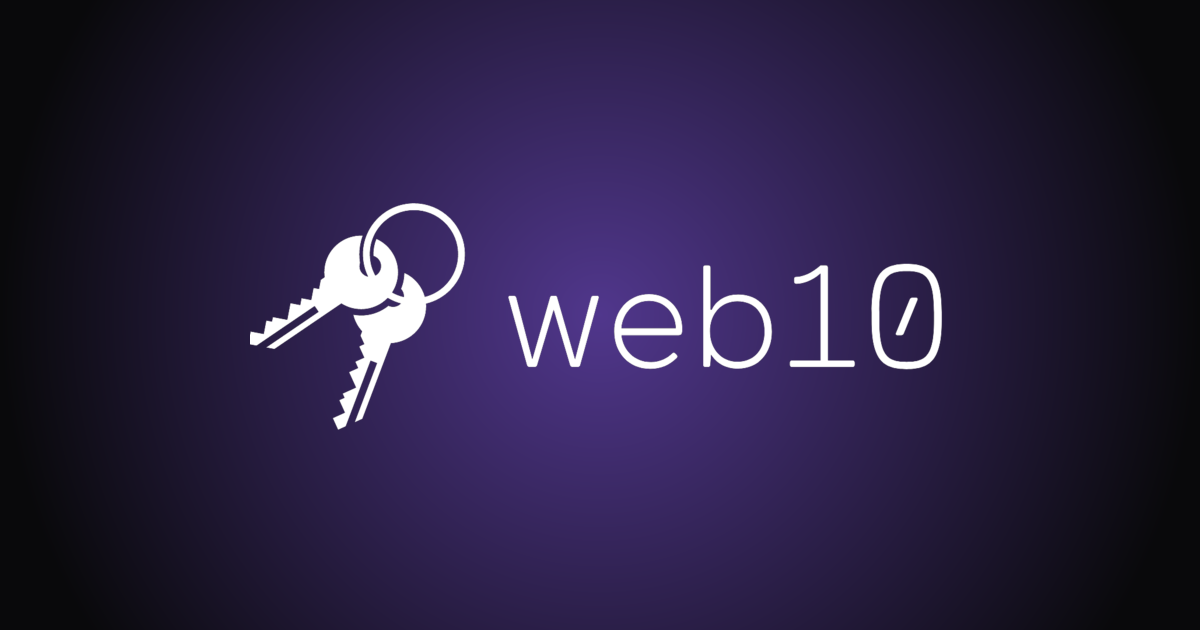
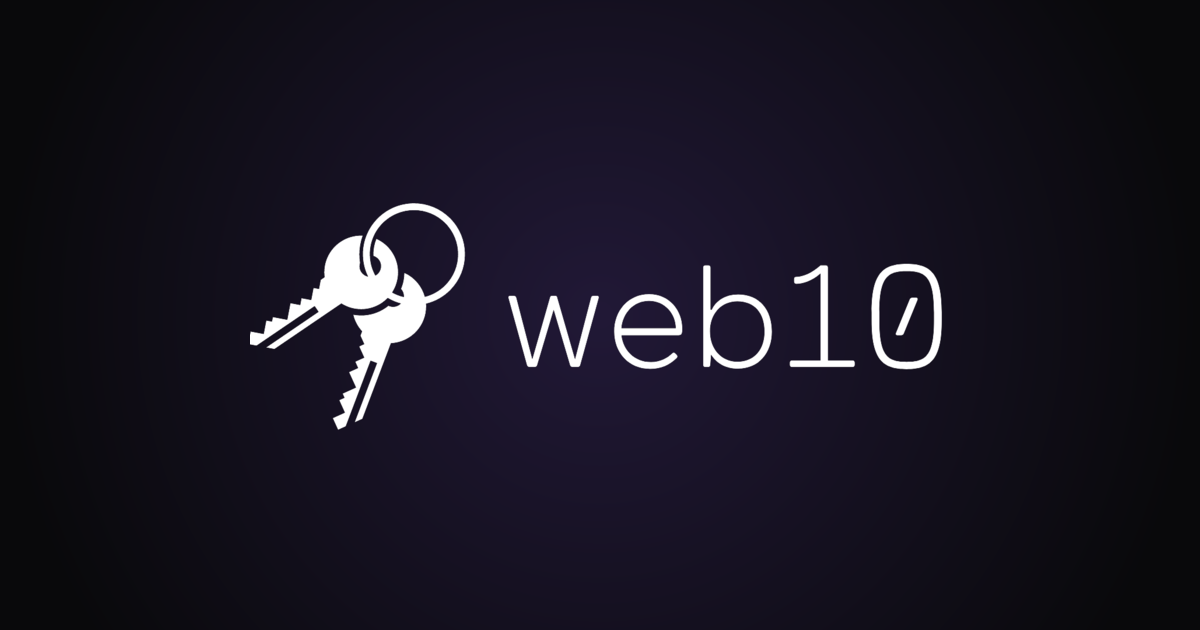
fix(social, marketing): share cards bake in their own dark background (D109)
Operator (10.11.2026, Instagram story screenshot of a shared
social.web10.app link): the share card shows a white key on a white
background — invisible. "should be black background... same for
web10.app too, same issues".

Root: a share card's og:image is an opaque asset — the receiving app
composites it onto its own card frame, and where the PNG is
transparent that frame is white. The social app-root static tags +
the preview server's BRAND_IMAGE fallback used keys-mark.png (the
white mark on transparent, the in-app asset).

- new marketing/web10-social/public/og-image.png: 1200x1200 square
  (the mark survives the IG story frame and 16:9 cover crops uncut),
  keys mark centered from its existing geometry on #09090b with a
  subtle violet glow; used by the static og:/twitter: tags and the
  crawler-card brand fallback (preview/card.mjs BRAND_IMAGE)
- service worker precaches /og-image.png (VERSION v3 -> v4)
- marketing-ui public/brand/og-image.png regenerated: same lockup
  geometry + placement on #09090b, glow cut so the background reads
  black (was a mid-purple field); same URL, no tag change
- .context/brand-assets/og-image.png shared copy tracks it
- 21 card/server controls re-pinned (previewCard.test.ts 19,
  previewServer.test.ts 2)
- in-app mark pairs (keys-mark{,-dark}.png, logo-lockup{,-dark}.png)
  untouched — there the page owns the background

KB: decisions.md D109 + design.md 3 (share-card row + debt-4 payoff)
[…]

diff --git a/marketing/web10-social/src/__tests__/previewCard.test.ts b/marketing/web10-social/src/__tests__/previewCard.test.ts
@@ -198,7 +198,7 @@ describe('web10-social link-preview card logic (KB: media/thumbnailing.md)', () 
     expect(html).toContain('"title":"Nosferatu (1922) — Full Film"')
     expect(html).toContain('"description":"Hello! I post public domain movies."')
     expect(html).toContain('http://minio.test/nova/film-poster.webp')
-    expect(html).not.toContain('keys-mark.png')
+    expect(html).not.toContain('og-image.png')
   })
 
   it('postCard: a public post with no media falls back to the author avatar', async () => {
@@ -226,7 +226,7 @@ describe('web10-social link-preview card logic (KB: media/thumbnailing.md)', () 
       'query:avatar_ref:["api.test/groups/users/nova/followers"]': [], // no profile face
     })
     const html = await postCard('nova', 'p1')
-    expect(html).toContain('http://social.test/keys-mark.png')
+    expect(html).toContain('http://social.test/og-image.png')
   })
 
   it('postCard: a group-authored post with no media falls back to the group face avatar', async () => {
@@ -273,7 +273,7 @@ describe('web10-social link-preview card logic (KB: media/thumbnailing.md)', () 
     const html = await postCard('nova', 'p1')
     // The generic card — no post text, the brand mark, the canonical url.
     expect(html).toContain('A post on web10')
-    expect(html).toContain('http://social.test/keys-mark.png')
+    expect(html).toContain('http://social.test/og-image.png')
     expect(html).toContain('http://social.test/u/nova/p/p1')
     // The secret text must not leak.
     expect(html).not.toContain('secret')
@@ -336,14 +336,14 @@ describe('web10-social link-preview card logic (KB: media/thumbnailing.md)', () 
       })
       const html = await profileCard('nova')
       expect(html).toContain('Nova')
-      expect(html).toContain('http://social.test/keys-mark.png')
+      expect(html).toContain('http://social.test/og-image.png')
     })
 
     it('an unknown user (no profile doc) renders a generic @username card', async () => {
       mockPlatform({}) // the face query returns no rows → the generic card
       const html = await profileCard('ghost')
       expect(html).toContain('@ghost on web10')
-      expect(html).toContain('http://social.test/keys-mark.png')
+      expect(html).toContain('http://social.test/og-image.png')
       expect(html).toContain('http://social.test/u/ghost')
     })
 
@@ -353,7 +353,7 @@ describe('web10-social link-preview card logic (KB: media/thumbnailing.md)', () 
       })
       const html = await profileCard('bob')
       expect(html).toContain('@bob on web10')
-      expect(html).toContain('http://social.test/keys-mark.png')
+      expect(html).toContain('http://social.test/og-image.png')
       expect(html).toContain('http://social.test/u/bob')
       // The face must not leak.
       expect(html).not.toContain('secret')
@@ -365,7 +365,7 @@ describe('web10-social link-preview card logic (KB: media/thumbnailing.md)', () 
       fetchMock.mockRejectedValueOnce(new Error('boom'))
       const html = await profileCard('nova')
       expect(html).toContain('@nova on web10')
-      expect(html).toContain('http://social.test/keys-mark.png')
+      expect(html).toContain('http://social.test/og-image.png')
     })
   })
 
@@ -425,7 +425,7 @@ describe('web10-social link-preview card logic (KB: media/thumbnailing.md)', () 
       })
       const html = await groupCard(GROUP_ID)
       expect(html).toContain('Jazz Collectors')
-      expect(html).toContain('http://social.test/keys-mark.png')
+      expect(html).toContain('http://social.test/og-image.png')
     })
 
     it('a group with no readable face renders a generic card with no content', async () => {
@@ -436,7 +436,7 @@ describe('web10-social link-preview card logic (KB: media/thumbnailing.md)', () 
       })
       const html = await groupCard('api.web10.app/groups/users/bob/secret')
       expect(html).toContain('A group on web10')
-      expect(html).toContain('http://social.test/keys-mark.png')
+      expect(html).toContain('http://social.test/og-image.png')
       expect(html).toContain(`http://social.test/groups/${encodeURIComponent('api.web10.app/groups/users/bob/secret')}`)
       // The face must not leak.
       expect(html).not.toContain('secret club name')
@@ -461,7 +461,7 @@ describe('web10-social link-preview card logic (KB: media/thumbnailing.md)', () 
       const fetchMock = mockPlatform({ 'read:private': null })
       const html = await musicCard('private')
       expect(html).toContain('A post on web10')
-      expect(html).toContain('keys-mark.png')
+      expect(html).toContain('og-image.png')
       expect(fetchMock).toHaveBeenCalledTimes(2)
       expect(fetchMock.mock.calls.some(([url]) => String(url).includes('/thumbnail'))).toBe(false)
     })
@@ -470,7 +470,7 @@ describe('web10-social link-preview card logic (KB: media/thumbnailing.md)', () 
       mockPlatform({ 'read:no-art': { author_key: 'nova', body: { title: 'Uncovered' } } })
       const html = await musicCard('no-art')
       expect(html).toContain('Uncovered')
-      expect(html).toContain('keys-mark.png')
+      expect(html).toContain('og-image.png')
     })
 
     it.each([undefined, null, ''])('renders generic Music without document reads for %s', async (track) => {
@@ -525,7 +525,7 @@ describe('web10-social link-preview card logic (KB: media/thumbnailing.md)', () 
       })
       const html = await watchCard('p1')
       expect(html).toContain('A post on web10')
-      expect(html).toContain('http://social.test/keys-mark.png')
+      expect(html).toContain('http://social.test/og-image.png')
       expect(html).toContain('http://social.test/watch/p1')
     })
 
@@ -583,7 +583,7 @@ describe('web10-social link-preview card logic (KB: media/thumbnailing.md)', () 
       })
       const html = await shortsCard('p1')
       expect(html).toContain('A post on web10')
-      expect(html).toContain('http://social.test/keys-mark.png')
+      expect(html).toContain('http://social.test/og-image.png')
       expect(html).toContain('http://social.test/shorts/p1')
     })
   })
@@ -600,7 +600,7 @@ describe('web10-social link-preview card logic (KB: media/thumbnailing.md)', () 
       expect(html).toContain('"title":"Night Drive"')
       expect(html).toContain('"image":"http://minio.test/nova/album.webp"')
       expect(html).toContain(`http://social.test/groups/${encodeURIComponent(CLUB)}/p/track-1`)
-      expect(html).not.toContain('keys-mark.png')
+      expect(html).not.toContain('og-image.png')
       // Anon-only reads (no Authorization header ever leaves the process).
       expect(fetchMock.mock.calls.every(([, init]) => !('Authorization' in (init?.headers || {})))).toBe(true)
     })
@@ -609,7 +609,7 @@ describe('web10-social link-preview card logic (KB: media/thumbnailing.md)', () 
       const fetchMock = mockPlatform({ 'read:private': null })
       const html = await groupPostCard(CLUB, 'private')
       expect(html).toContain('A post on web10')
-      expect(html).toContain('keys-mark.png')
+      expect(html).toContain('og-image.png')
       expect(html).toContain(`http://social.test/groups/${encodeURIComponent(CLUB)}/p/private`)
       expect(fetchMock.mock.calls.some(([url]) => String(url).includes('/thumbnail'))).toBe(false)
     })
@@ -804,7 +804,7 @@ describe('web10-social link-preview card logic (KB: media/thumbnailing.md)', () 
       )
       const html = await savedCard('nova', PLAYLIST)
       expect(html).toContain('"title":"Jazz Nights"')
-      expect(html).toContain('http://social.test/keys-mark.png')
+      expect(html).toContain('http://social.test/og-image.png')
       expect(html).toContain('1 saved item')
     })
 
@@ -812,7 +812,7 @@ describe('web10-social link-preview card logic (KB: media/thumbnailing.md)', () 
       const fetchMock = mockPlatform({})
       const html = await savedCard('nova', 'api.test/groups/users/nova/saved-secret')
       expect(html).toContain('A playlist on web10')
-      expect(html).toContain('http://social.test/keys-mark.png')
+      expect(html).toContain('http://social.test/og-image.png')
       expect(html).toContain(`http://social.test/u/nova/saved/${encodeURIComponent('api.test/groups/users/nova/saved-secret')}`)
       expect(html).not.toContain('secret name')
       // Face read + render only — no thumbnail, no item read, no post reads.
@@ -824,7 +824,7 @@ describe('web10-social link-preview card logic (KB: media/thumbnailing.md)', () 
       mockPlatform(faceHandlers(null)) // the items read answers null → no count, no cover walk
       const html = await savedCard('nova', PLAYLIST)
       expect(html).toContain('"title":"Jazz Nights"')
-      expect(html).toContain('http://social.test/keys-mark.png')
+      expect(html).toContain('http://social.test/og-image.png')
       expect(html).toContain('"description":"by @nova"')
       expect(html).not.toContain('saved items')
     })
@@ -862,7 +862,7 @@ describe('web10-social link-preview card logic (KB: media/thumbnailing.md)', () 
       const fetchMock = mockPlatform({})
       const html = await musicPlaylistCard('api.test/groups/users/nova/saved-secret')
       expect(html).toContain('A playlist on web10')
-      expect(html).toContain('http://social.test/keys-mark.png')
+      expect(html).toContain('http://social.test/og-image.png')
       expect(html).toContain(`http://social.test/music?view=playlists&collection=${encodeURIComponent('api.test/groups/users/nova/saved-secret')}`)
       expect(fetchMock).toHaveBeenCalledTimes(2)
     })

diff --git a/marketing/web10-social/index.html b/marketing/web10-social/index.html
@@ -10,16 +10,19 @@
     <!-- Static Open Graph / Twitter Card fallback (D71). Post permalinks get
          per-post tags rendered by the node (the share-preview endpoint); these
          cover the app root + any non-post route a link might point at. The
-         image is the brand mark; crawlers resolve it against the page origin. -->
+         image is the share-card brand mark: the keys mark on the #09090b dark
+         back (D109) — share UIs composite a transparent og:image onto their
+         OWN white card, which is how the bare white-on-transparent mark went
+         invisible; a baked-in dark back makes the card self-contained. -->
     <meta property="og:type" content="website" />
     <meta property="og:site_name" content="web10" />
     <meta property="og:title" content="web10 social" />
     <meta property="og:description" content="Your audience. No shadow ban. 100% delivery by architecture." />
-    <meta property="og:image" content="/keys-mark.png" />
+    <meta property="og:image" content="/og-image.png" />
     <meta name="twitter:card" content="summary" />
     <meta name="twitter:title" content="web10 social" />
     <meta name="twitter:description" content="Your audience. No shadow ban. 100% delivery by architecture." />
-    <meta name="twitter:image" content="/keys-mark.png" />
+    <meta name="twitter:image" content="/og-image.png" />
     <link rel="apple-touch-icon" href="/apple-touch-icon.png" />
     <link rel="manifest" href="/manifest.json" />
     <title>web10 social</title>

diff --git a/marketing/web10-social/src/__tests__/previewServer.test.ts b/marketing/web10-social/src/__tests__/previewServer.test.ts
@@ -164,7 +164,7 @@ describe('music preview HTTP routing', () => {
     // for anon on the real node).
     expect(result.html).toContain('"image":"https://media.test/playlist-cover.webp"')
     expect(result.html).not.toContain('playlist-recording.mp3')
-    expect(result.html).not.toContain('keys-mark.png')
+    expect(result.html).not.toContain('og-image.png')
     expect(result.html).toContain('2 saved items')
     expect(result.html).toContain('by @nova')
     expect(result.html).toContain(`https://social.test/u/nova/saved/${encodeURIComponent(PLAYLIST)}`)
@@ -192,7 +192,7 @@ describe('music preview HTTP routing', () => {
     const result = await get(`/u/nova/saved/${encodeURIComponent(secret)}`)
     expect(result.status).toBe(200)
     expect(result.html).toContain('A playlist on web10')
-    expect(result.html).toContain('https://social.test/keys-mark.png')
+    expect(result.html).toContain('https://social.test/og-image.png')
     expect(result.html).not.toContain('playlist-cover.webp')
     const services = calls.map(call => call.body.service).filter(Boolean)
     expect(services).toEqual(['web10-social-group-identity'])

diff --git a/marketing/web10-social/public/serviceWorker.js b/marketing/web10-social/public/serviceWorker.js
@@ -14,7 +14,7 @@
 // Bump VERSION on a deploy that changes the shell — the versioned cache names
 // make the old shell get garbage-collected on activate.
 
-const VERSION = 'v3';
+const VERSION = 'v4';
 const STATIC_CACHE = `web10-social-static-${VERSION}`;
 const RUNTIME_CACHE = `web10-social-runtime-${VERSION}`;
 
@@ -31,6 +31,7 @@ const PRECACHE_URLS = [
   '/favicon.ico',
   '/keys-mark.png',
   '/keys-mark-dark.png',
+  '/og-image.png',
   '/apple-touch-icon.png',
   '/hls.min.js',
   '/wapi.js',

diff --git a/knowledge-base/changelogs/CHANGELOG.md b/knowledge-base/changelogs/CHANGELOG.md
@@ -1,3 +1,6 @@
+5.16.1 || 10.11.2026
+fix(marketing, social): share cards bake in their own dark background (D109) — operator (10.11.2026, Instagram story screenshot of a shared social.web10.app link): "when sharing web10 social, the background looks terrible should be black background... same for web10.app too, same issues"; follow-up: "if the key is white that is what i am saying". Root: the share image is an OPAQUE asset — the receiving app (Instagram/WhatsApp/iMessage) composites `og:image` onto its own card frame, and where the PNG is transparent that frame is white. web10-social's static `og:`/`twitter:` tags and the preview server's `BRAND_IMAGE` fallback were `keys-mark.png` (the white keys mark on transparent — the in-app asset) → a white key on a white card, effectively invisible. Fix: (1) new `marketing/web10-social/public/og-image.png` — 1200×1200 square (survives Instagram's near-square story frame AND 16:9 cover crops with the mark uncut), the keys mark centered from its existing geometry (upscaled from the canonical transparent source, not redrawn) on `#09090b` with a subtle violet glow; used by the app-root static tags AND the crawler-card brand fallback (`preview/card.mjs` `BRAND_IMAGE`) — so private posts, coverless playlists, faceless profiles, generic groups and music all fall back to the dark card, not the white one. Service worker precaches it (VERSION v3→v4). (2) `marketing/marketing-ui/public/brand/og-image.png` regenerated — the same lockup geometry + placement on `#09090b` with the glow cut so the background reads black (it was a mid-purple field; the operator asked for black). Same URL, so no tag change; the shared copy `.context/brand-assets/og-image.png` tracks it. In-app mark pairs (`keys-mark{,-dark}.png`, `logo-lockup{,-dark}.png`) untouched — inside app chrome the page owns the background, so transparency is correct there. 21 card/server controls re-pinned (`previewCard.test.ts` 19, `previewServer.test.ts` 2); all 2,426 social tests + all 377 marketing tests + both production builds/typechecks pass. KB: `decisions.md` D109 + `design.md` §3 (the share-card row + the debt-4 payoff) + `social/share-preview.md` + `social/pwa.md` (the precache list). Open: production deploy + the receiving app's re-crawl (Instagram/WhatsApp cache the old image; a re-share picks up the new one on the next crawl).
+
 5.16.0 || 10.11.2026
 feat(social): shared playlists open for logged-out visitors, a playlist is a playlist on every surface, and a video CAN be a track (operator reports, 10.11.2026: the shared `/music?view=playlists&collection=…` link showed a sign-in wall to a logged-out recipient — "should be able to see it because it is a public playlist"; "when i hit share playlist, it shows it as a collection when people click it"; "in the profile … music posts that are mp3 dont play, collections on the profile that are music are botched up" — one root; "detect if a collection is all music"; a deleted post "still uses the photo from it as the thumbnail even though it is deleted, it is like the post is lingering"; then "can videos be made to be treated like music? where they show up in the music tab … want to be able to edit posts and make them considered music, as a choice"). Root causes, one direction: the collection's `anyone` grant is the access control, the Music view is the sharing surface, the shared audio/video players are the media seams, a cover lives only through live items, and a track's kind is a tag + a resolved media — never a column. **(1) Anon deep-link access** — `MusicScreen`'s playlists-view gates held the collection state BEHIND the session: the load effect bailed and the render gate showed "A library of your own" for any non-explore view without `scope=browse|bookmarks`, so a URL-opened collection never loaded for a visitor. The URL now holds the state it always said it held: `view=playlists&collection=…` loads for anyone — public collections render the playlist + Play all through the existing read path (the `anyone` grant, zero new read authority), a private one 403s into "This playlist is private or no longer available." (the I3 state, not a wall); the sign-in wall is kept exactly where the URL carries no collection (the anonymous playlists GRID and the Saved Music view — the reader's own library). **(2) The share shape** — "Share playlist" (the Music app + Saved Music) and the D88 screen's share for an ALL-MUSIC collection now hand out the LISTENING permalink `/music?view=playlists&collection=<group_id>` instead of the D88 collection screen (which was the "shows it as a collection" — a management wall, not the playlist). The D88 screen keeps its permalink as the MANAGE link (the owner's "Manage collection & order"), and gains the music detection the operator asked for: a saved collection whose LIVE items all pass the shared `musicTrackFromPost` gate (the `music` tag + exactly one playable media; dead items excluded, no-live-items is not music) offers a "Listen in Music" handoff (owner, visitors and anon) + shares the listening permalink; mixed collections keep the D88 shape. The preview edge answers the new URL shape with the same saved-collection card (face + count + the cover walk, no user attribution — the query URL carries no username; the I3 floor intact: a denied face → the generic card, no content); the existing nginx `location = /music` crawler proxy already carries it (query strings don't affect the location match — no config change). **(3) Audio in the post lightbox** — `LightboxSlide` rendered every non-video frame as `<img src=media.url>`: for an mp3 that's a broken image, which is why profile mp3 posts "don't play" AND why the profile's music collections were "botched" (the D88 wall opens posts through the same lightbox). A music-track post now collapses to ONE slide — the shared `AudioPlayer` (the Posts feed's own control: album art via the shared precedence, seek, the authorized-recovery path) with the track's title/artist; the media pane drops its 4:3 black stage for the audio slide (content-sized); a non-music audio item (a voice note) gets the same audio slide per frame; a music-VIDEO post keeps the video player (the gate passes a video playable through — the strip only collapses when the track's media is audio). **(4) D107 replay state** — `readMusicCollection` returns the face's visibility, and the open-collection section's `data-replay-private` uses it when the reader's library has no record of the collection (the anon/visitor case): a public playlist an anonymous visitor opens is public content (unmasked), an unknown/failed read stays masked. **(5) Stale-cover self-heal** — deleting a post tombstones the `posts` doc, but its MEDIA DOCS OUTLIVE IT, so a cover pinned (or auto-set) from that post kept resolving to a displayable URL: the dead post's picture lingered on every card ("the post is lingering"). The cover is valid only THROUGH A LIVE ITEM: `readCollection` checks the face's `avatar_ref` against the live items' media after resolving; stale → reselect the first live item's first media (the auto-cover rule) or clear it (no live media → the placeholder), and persist the healed face best-effort (the owner's write — a visitor's 403 is ignored, the in-session face is healed either way, the grid converges on the owner's next open). A live cover never triggers a write (ordinary reads stay write-free); dead items themselves still render the "no longer available" tile (the degradation, unchanged — the cover is the fix, not the item). Gates: 41 new + re-pinned focused controls — `musicScreen.test.tsx` (the anon suite: the public deep link loads without the wall or a library read, the private deep link 403s into the unavailable state, the wall is kept for the anon playlists grid + Saved Music, the D107 replay state from the face visibility, the deep-linked track for a visitor; the share-URL re-pins on the new shape, red pre-fix); `saved.test.ts` +5 (reselect + persist, live cover = no write, all-dead = cleared, the visitor-403 silent degrade, the pure-helper edges); `postLightboxAudio.test.tsx` (new: the music slide + album art with the recording never an `<img>`, the art-less track, the untagged audio, the music-video stays video); `savedCollection.test.tsx` +6 (the CTA owner/visitor/anon, dead-item exclusion, the music share URL, the mixed D88 shape, all-dead no handoff); `previewCard.test.ts` +2 / `previewServer.test.ts` +2 (the playlist URL shape's card + routing, the I3 floor both sides); `musicVideoTrack.test.tsx` (new: the dual transport — a file video routes to the video element, a transcoded video rides the hls manifest + attaches to the context's own element, video→audio releases the video source, and the stage lend/return round-trips the SAME element); `postEditMedia.test.tsx` +3 (an audio post offers the tag REMOVAL, a video post the tag ADD, an image-only post no control); `musicScreen.test.tsx` +3 (the video track's panel stage borrows the session element — exactly one `<video>` in the DOM, the audio track keeps the artwork stage, and the manage link is library-gated for a foreign collection); `composerPaste.test.tsx` +6 (the paperclip general-media affordance, paste→album-art on a solo-audio tray without a second tray item or the image pipeline, root drop→album-art, the chip as a direct drop target without double-routing, a non-image on the chip ignored, and the mixed-tray image staying in the tray). All 2,426 social tests + tsc clean + production build; real Chromium desktop/375px captures inspected: the owner's playlist, the LOGGED-OUT recipient opening the same public playlist (the report, pre-fix = the sign-in wall), the all-music collection + handoff, the audio post lightbox, the profile Saved tab covers, the MUSIC VIDEO on the panel's video stage (a real decoded H.264 frame, the full music rack intact), and the composer's paperclip attach button. Fixture-only harness data — not actual-node permissions, the receiving-app card re-crawl, or deployment; connected acceptance stays with the Music connected-acceptance lanes. **(6) A video CAN be a track (the "treat videos like music" ask).** The read side was already video-capable (the shared `musicTrackFromPost` gate accepts exactly one playable, audio OR video; `readMusicPage` runs it) — the gaps were the transport and the write choice. `MusicContext` now owns a DUAL transport: the existing hidden `Audio` element + a hidden `Video` element (one voice — the active element is the current track's kind; loading a track releases the other kind's source). A transcoded video (status done + minted manifest) rides hls.js through the app's vendored build + the shared `resolveManifestHref` (the source selector moved to the PURE `@web10/discover/video-source` subpath — the `/face`/`audio-artwork` seam pattern — so the context import never drags the React barrel into the `vi.mock('@/data')` cycle); a raw MP4 plays the direct file; native-HLS (Safari) falls back to the element's own src. The expanded player panel BORROWS the session's video element into its visible stage (the provider owns the element — the surface lends a parent by effect, keyed on `music.videoElement` landing after the provider's mount effect; position + hls state survive the move; leaving the panel or switching to an audio track returns it to detached audio-only). The mini-player keeps its artwork (the video's poster), the Media Session artwork stays the shared precedence (the poster for video tracks), and the "other media pauses the session" guard now covers BOTH of the session's own elements. **(7) The "mark as music" choice, both directions.** Create mode already had the opt-in checkbox for video posts; this wave completes the choice: the composer's EDIT mode now offers `MusicTagToggle` for AUDIO posts too (video already had it) — "Remove music tag" undoes the audio auto-tag, "Mark as music" adds it — saving separately from content (the Discover-audience pattern, `updatePost` tags-only). Image-only posts get no control (the gate can't pass). **(8) Video tracks in the feed** render their poster as the row's artwork (the existing `audioArtwork` precedence) and open on the panel's video stage. Also: the owner's "Manage collection & order" link is now library-gated (it only appears for a collection in the READER's own library — a signed-in visitor opening a shared link never gets a manage link into their own `/u/…/saved/…` for someone else's collection, a potential mis-route the share change made reachable). **(9) The composer's media affordance is general media, and the album cover has real attach paths** (operator, same session: "there is an image icon to add an image, but should be add media in general … can be an image or a video or a mp3"; "with pasting we should be able to paste the album cover in, OR drag the album cover on there"). Diagnosis first: the picker/validate/attach pipeline was already general (image + MP4/WebM + MP3) — what the operator saw on social.web10.app was the DEPLOYED build (the 5.15.0 paste merge had not shipped yet; verified against the production bundle: no `pasted-image-` marker), not a regression. The code changes: the attach button is now the paperclip general-media affordance (aria "Attach media" + the "Add media — photos, videos or MP3" tooltip — no longer a photo icon implying images-only); and the ALBUM-COVER shortcut — when the tray holds EXACTLY ONE audio item, an incoming image (pasted at the root, dropped anywhere, or dropped/pasted directly on the track's "Add art" chip — the chip is now a focusable drop + paste target, not click-only) becomes that track's ALBUM ART (`thumbnail_object_key`, the shared album-art precedence's first pick) instead of a second media item; a mixed/multi-item tray keeps the normal tray routing, and a non-image on the art chip is ignored. No node surface (D60), no access-policy change. Contracts: `web10-v3/social/saved-collections.md` (the self-heal + the music handoff), `strategy/music-social-library.md` (the share shape + the anon deep-link access), `web10-v3/media/thumbnailing.md` (the playlist URL shape's card), `web10-v3/social/music.md` (the mark-as-music choice + the dual transport), `strategy/music-listening.md` (the dual-transport contract), `web10-v3/social/rich-text.md` (the general-media affordance + the album-cover shortcut).
 5.15.1 || 10.11.2026

diff --git a/knowledge-base/strategy/plan.md b/knowledge-base/strategy/plan.md
@@ -572,6 +572,7 @@ and a private / followers-only post never leaks (a generic card instead).
 - [✓ 3.91.0] **Generic thumbnailing utility + the social card moves to the social app's preview server (D60, Option A)** (KB-first: `media/thumbnailing.md`) — `share.py` baked social concepts (posts, profile, the permalink, the author-avatar → brand-mark fallback) into the universal platform (a D60 leak). Now the platform keeps only universal primitives: the pure `pickThumbnail` (schema-free selection over resolved media) + `POST /v3/media/thumbnail {doc_id}` (access-checked; a doc with media or a media doc itself) + `POST /v3/preview/render` (the generic card renderer — spec in, OG/Twitter HTML out, zero social knowledge). `share.py` is **deleted** — the node has zero social concepts. The social card is the social app's tail: a small Node preview server (`marketing/web10-social/preview/`) in the social container alongside nginx maps the social permalink → doc → `media/thumbnail` → the social fallback → `preview/render`. The social nginx User-Agent split proxies crawlers to it; browsers get the SPA.
 - [✓ 3.102.0] **Follow-up: group permalink** — the same preview-server pattern for `/groups/:groupId` (the group's face — cover → avatar → brand mark from the `web10-social-group-identity` doc, D60 — as the image). A new route in the same social preview server. The SPA encodes the group id (which contains slashes) into a single path segment; the nginx edge split + the preview server's `/groups/:groupId` route capture it and decode. A group whose face isn't anon-readable (or has no face) previews a generic web10 card (the I3 floor). `previewCard.test.ts` +4; KB `social/share-preview.md` + `media/thumbnailing.md` updated.
 - [✓ 3.211.0] **Follow-up: the watch + short share links get the media thumbnail (every share surface previews with a picture)** (operator, 05.10.2026, an iMessage screenshot of a shared watch link: "when i share, i want all surfaces to have a nice photo of the thumbnail etc. sharing from the posts screen works great, but video screen or shorts screen dont get the thumbnail, lets make sure all surfaces sharing from get a nice media thumbnail, it entices people to click when you share! makes the link seem more harmless.") The post permalink had the edge split → `postCard` → a card with the media thumbnail, but the **watch** share (`/watch/:postId`) + the **shorts** share (`/shorts/:postId`) had NO nginx location — a crawler got the SPA's `index.html` (no OG tags) → a bare URL, no picture. **The fix (all in the social app's preview server + nginx, D60 — zero node surface):** the post-card logic is extracted into a shared `buildPostCard(postId, canonicalUrl, usernameHint?)` (read the post → strip markdown → `media/thumbnail` → the author-avatar/brand fallback → `preview/render`); `postCard` keeps its permalink URL, and two new exports — `watchCard(postId)` + `shortsCard(postId)` — build the SAME card (same thumbnail, same text, `is_video`) with their own canonical URL (the username for the fallback title is derived from the doc's `author_key`, since those URLs carry none). Two new routes in `server.mjs` + two new nginx location blocks (the same crawler-User-Agent split; browsers still get the SPA). A watch/short IS a post (one `posts` doc, the D44 video) — only the URL shape differs. `previewCard.test.ts` +9; 1323 web10-social green, `tsc` clean.
+- [✓ 5.16.1 local] **Follow-up: the share card's brand image bakes in its own dark background (D109)** (operator, 10.11.2026, an Instagram story screenshot of a shared social.web10.app link: "when sharing web10 social, the background looks terrible should be black background... same for web10.app too, same issues" + "if the key is white that is what i am saying"). The static `og:image`/`twitter:image` + the preview server's brand fallback were `keys-mark.png` — the white mark on transparent — and the receiving app composites `og:image` onto its own WHITE card frame, so the share card showed a white key on white. New `public/og-image.png` (1200×1200, the keys mark centered on `#09090b` with a subtle violet glow, existing geometry — not redrawn) is the static-tag image + `BRAND_IMAGE`; the service worker precaches it (VERSION v3→v4). Marketing's `brand/og-image.png` regenerated: the same lockup geometry/placement on `#09090b` with the glow cut so the background reads black (was a mid-purple field); the shared `.context/brand-assets/og-image.png` copy tracks it. In-app mark pairs untouched (the page owns the background there). 21 card/server controls re-pinned; 2,426 social + 377 marketing tests, both production builds/typechecks green. Open: production deploy + the receiving app's re-crawl.
 
 ## Notifications: The Always-On Signal (D69)
 

diff --git a/knowledge-base/strategy/parallel-execution.md b/knowledge-base/strategy/parallel-execution.md
@@ -1459,6 +1459,7 @@ Permalinks (D71)".
 - [✓ 3.83.0] **Tests** (`api/tests/test_share_endpoint.py`, 8) — public → og tags + thumbnail; video → `video.other` + poster; **private → generic, no leak** (I3 anti-test); ghost / non-post → 404; text-only → brand image; truncation; avatar fallback. 986 api + 494 social green, `tsc --noEmit` clean; nginx split verified via `nginx -t` + a docker e2e (crawler → proxied, browser → SPA, non-post never proxied).
 - [✓ 3.90.0] **Profile permalink** (`GET /v3/share/profile/{username}`, `api/app/v3/endpoints/share.py` + `nginx.conf` + `api/tests/test_share_endpoint.py`) — the profile's face (avatar as `og:image`, display name, bio, `og:type=profile`) for crawlers; the nginx edge proxies `/u/:username` (mutually exclusive with the post permalink) to it for known link-preview bots. No anon-read gate (a profile's face is public identity — the avatar is already on the discover board; no private accounts); a no-profile user previews as a generic `@username on web10` card. `test_share_endpoint.py` +4 (og tags, no-avatar → brand mark, unknown user → generic card, bio truncation). 990 api tests green.
 - [✓ 3.91.0] **Generic thumbnailing utility + the social card moves to the social app's preview server (D60, Option A)** (KB-first: `media/thumbnailing.md`) — operator: "this share.py is totally against the knowledge base…… all the functionality of web10 is supposed to be generic." `share.py` baked social concepts (posts, profile, the `/u/:username` permalink, the author-avatar → brand-mark fallback) into the universal platform — a D60 leak. Now the platform keeps only universal primitives: the pure `pickThumbnail` (schema-free selection over resolved media) + `POST /v3/media/thumbnail {doc_id}` (access-checked; a doc with media or a media doc itself) + `POST /v3/preview/render` (the generic card renderer — spec in, OG/Twitter HTML out, zero social knowledge). `share.py` is **deleted** — the node has zero social concepts. The social card is the social app's tail: a small Node preview server (`marketing/web10-social/preview/` — `card.mjs` + `server.mjs`) in the social container alongside nginx maps the social permalink → doc → `media/thumbnail` → the social fallback → `preview/render`. The social nginx User-Agent split proxies crawlers to it; browsers get the SPA. Deploy: Dockerfile installs Node + `docker-entrypoint.sh` (preview server + nginx); nginx → `${PREVIEW_TARGET}`; compose drops `API_PROXY_TARGET`, adds `PREVIEW_TARGET`/`API_ORIGIN`/`SOCIAL_ORIGIN`/`PREVIEW_PORT`. `test_thumbnail.py` (14) + `test_preview_render.py` (10) + `v3.test.ts` +7 + `previewCard.test.ts` (8). 1001 api + 117 sdk + social green, `tsc` clean.
+- [✓ 5.16.1 local] **Dark-backed share card brand image (D109)** - owns the static og/twitter tags in `marketing/web10-social/index.html`, `preview/card.mjs`'s `BRAND_IMAGE`, the service worker precache + VERSION bump, the new `public/og-image.png` asset and the re-pinned card/server tests; the operator's Instagram-screenshot instruction extends to `marketing/marketing-ui/public/brand/og-image.png` + `.context/brand-assets/og-image.png` (asset bytes only, no marketing code). The transparent `keys-mark.png` composited onto the receiving app's white card frame → an invisible white key; the share image now bakes in its own `#09090b` background (marketing's glow cut to read black). 2,426 social + 377 marketing tests, both builds green. Open: production deploy + the receiving app's re-crawl.
 - [✓ 3.102.0] **Follow-up** — group permalink (same preview-server pattern: the group's face — cover → avatar → brand mark from the `web10-social-group-identity` doc, D60 — as the image). A new route in the same social preview server. The SPA encodes the group id (which contains slashes) into a single path segment; `preview/server.mjs` gains `/groups/:groupId` (captures `[^/]+`, decodes), `nginx.conf` gains the crawler edge split for `/groups/<segment>` (mutually exclusive with the `/u/` permalinks). A group whose face isn't anon-readable (or has no face) previews a generic web10 card (the I3 floor). `previewCard.test.ts` +4 (cover / avatar / brand fallbacks + no-read → generic, no leak). 693 social tests green, `tsc` + `vite build` clean; e2e-verified against the live production API. KB `social/share-preview.md` (new "The group permalink" section) + `media/thumbnailing.md` (open question closed).
 
 ### Lane: watch-page (Phase 3)

diff --git a/knowledge-base/strategy/design.md b/knowledge-base/strategy/design.md
@@ -94,6 +94,7 @@ a wrong logo is worse than no logo.
 | **Full lockup** | `marketing/marketing-ui/public/brand/logo-lockup.png` (1200×400, moved from `layouts/images/logo_white.png` by D13) | Keys-on-keyring mark + lowercase thin-outline "web10" wordmark, white on transparent | Navbars, footers, hero, og-image. Dark backgrounds ONLY (it is white). Min height 24px; keep clear space ≥ the height of the "w" on all sides. |
 | **Square mark** | `.context/brand-assets/keys-mark-source-transparent.png` (369×389, white on transparent, corrected by D13 — see below) | The keys mark alone, cropped from the full lockup | Avatars, favicons, PWA icons, app-store tiles, anywhere square. Dark backgrounds only. Also the default profile picture in web10-social. |
 | **Dark counterparts (D108)** | `marketing/marketing-ui/public/brand/logo-lockup-dark.png`, `marketing/web10-social/public/keys-mark-dark.png` | Zinc-900 copies with exactly the original dimensions/alpha | Light-mode lockup and square mark; never put a dark backing behind them. White originals remain unchanged. |
+| **Share-card images (D109)** | `marketing/web10-social/public/og-image.png` (1200×1200, keys mark on `#09090b` + subtle violet glow), `marketing/marketing-ui/public/brand/og-image.png` (1200×630, lockup on `#09090b` + subtle glow; the shared copy is `.context/brand-assets/og-image.png`) | Opaque `og:image` assets for link previews | Share surfaces only (the app-root static tags + the social crawler card's brand fallback). Opaque ON PURPOSE: the receiving app composites `og:image` onto its own (white) card frame, so the image bakes in its own dark background — a transparent white mark is invisible there. Never use them in-app (in chrome, the transparent marks + the page's background are correct). |
 
 **Correction (D13, 19.07.2026):** this table used to point the square mark
 at `marketing/web10-social/public/alternative.png` (842×854). That file
@@ -147,6 +148,12 @@ existing files (do not invent a new mark):
    all from the square mark on `#09090b`, replacing every squatter above.
 4. **One shared og-image** (1200×630): full lockup on `#09090b` with
    the violet glow treatment (§4), used by all three apps.
+   *Paid (D109, 10.11.2026):* the marketing share surface is that asset —
+   the lockup on `#09090b`, glow cut so the background reads black; the
+   social share surface got its own square `public/og-image.png` (keys mark
+   on `#09090b`) because its card crops near-square. Both are opaque (a
+   share image must own its background — D109). The authenticator has no
+   share surface; its debt is the §3 icon set, not an og-image.
 
 
 ## 4. Color

diff --git a/knowledge-base/strategy/decisions.md b/knowledge-base/strategy/decisions.md
@@ -9,6 +9,38 @@ Status legend: [decided] intent set · [in-progress] · [open] still debating.
 
 ---
 
+### D109 — Share cards bake in their own dark background [decided]
+
+**10.11.2026 — operator** (Instagram story screenshot of a shared
+`social.web10.app` link): "when sharing web10 social, the background looks
+terrible should be black background... same for web10.app too, same issues" +
+"if the key is white that is what i am saying."
+
+**The defect class:** a share card's `og:image` is an *opaque* asset. The
+receiving app (Instagram, WhatsApp, iMessage, X) composites it onto its own
+card frame — and where the PNG is transparent, that frame is **white**.
+web10-social's static tags + the preview server's brand fallback used
+`keys-mark.png` (the white mark on transparent, the in-app asset) → a white
+key on a white card: invisible. The in-app use was never wrong — there, the
+page owns the background.
+
+**The decision:** share-surface images own their background.
+(1) New `marketing/web10-social/public/og-image.png` — a 1200×1200 square
+(the mark centered, uncut in Instagram's near-square story frame or a 16:9
+cover crop), the keys mark from its existing geometry (upscaled, not
+redrawn) on `#09090b` with a subtle violet glow. It is the app-root static
+`og:`/`twitter:` image AND the crawler card's `BRAND_IMAGE` fallback.
+(2) `marketing/marketing-ui/public/brand/og-image.png` regenerated — the same
+lockup geometry + placement on `#09090b`, the glow cut so the background
+reads black (it was a mid-purple field). The `.context/brand-assets/og-image.png`
+shared copy tracks it.
+
+**Rejected:** expecting the host to be dark (Instagram's frame is white —
+that is the bug); an HTML/CSS card background (crawlers read `og:image`, the
+HTML never ships); changing the in-app transparent mark pair (correct in
+chrome, where the page owns the background — D108's "never put a dark
+backing behind them" still holds inside the app).
+
 ### D108 — Social follows device appearance, with explicit light/dark choices [decided]
 
 **09.11.2026 — operator:** “lets build that whole system please!” after

diff --git a/.context/brand-assets/NOTE.md b/.context/brand-assets/NOTE.md
@@ -40,9 +40,14 @@ add a decisions.md line if the asset path becomes permanent.
   in `ui/`, not just aesthetic).
 - `favicon.ico` (16/32 multi-size) — replaces the unverified boilerplate
   favicon in both apps.
-- `og-image.png` (1200×630) — the shared og:image asset (lockup + violet
-  glow on `#09090b`). Social/ui likely don't need their own og:image, but
-  it's here if a share surface needs one.
+- `og-image.png` (1200×630) — the shared og:image asset; tracks
+  `marketing/marketing-ui/public/brand/og-image.png`. D109 (10.11.2026,
+  operator: the share card "should be black background"): regenerated on
+  `#09090b` with the glow cut so the background reads black. It is opaque
+  on purpose — a share image composites onto the receiving app's white card
+  frame and must own its background. Social's share surface uses its own
+  square `marketing/web10-social/public/og-image.png` (keys mark on
+  `#09090b`); the authenticator has no share surface.
 
 ## Still debt (not paid by this lane)
 

diff --git a/knowledge-base/web10-v3/social/share-preview.md b/knowledge-base/web10-v3/social/share-preview.md
@@ -47,6 +47,16 @@ concepts). The split (KB: `../media/thumbnailing.md`):
   card HTML. The social nginx User-Agent split proxies crawler requests to it
   (same container, localhost); browsers get the SPA.
 
+**The brand image bakes in its own background (D109).** Every share image is
+an opaque asset: the receiving app (Instagram, WhatsApp, iMessage, X)
+composites `og:image` onto its OWN card frame, and where the PNG is
+transparent that frame is white — a white mark on transparent went invisible
+in the card. The social app-root static tags + the preview server's
+`BRAND_IMAGE` fallback therefore use `public/og-image.png` (the keys mark on
+its `#09090b` dark back, subtle violet glow), not the in-app transparent
+`keys-mark.png`. The in-app marks stay transparent — there, the page owns
+the background.
+
 **The read is the same as the app's, minus the token.** The preview server:
 
 1. Reads the post by `doc_id` (the generic read, anon-capable — a public post

diff --git a/knowledge-base/web10-v3/social/pwa.md b/knowledge-base/web10-v3/social/pwa.md
@@ -35,7 +35,7 @@ The offline cache stores the **app shell** — the built JS/CSS/HTML, the manife
 On `install`, the worker precaches the known shell:
 
 - `/` and `/index.html` (the SPA entry — the offline fallback target),
-- `/manifest.json`, the icons (`logo192.png`, `logo512.png`, `favicon.ico`, `keys-mark.png`, `apple-touch-icon.png`),
+- `/manifest.json`, the icons (`logo192.png`, `logo512.png`, `favicon.ico`, `keys-mark.png`, `keys-mark-dark.png`, `og-image.png` (the D109 dark-backed share card), `apple-touch-icon.png`),
 - the vendored libs (`/hls.min.js`, `/wapi.js`),
 - **the hashed build assets** — Vite emits `/assets/index-<hash>.js` / `.css` whose names are unknown at authoring time, so the worker fetches `/index.html` at install, regexes out the `/assets/...` references, and precaches those too. This is what makes a *fresh* install work offline, not just a revisit.
 
